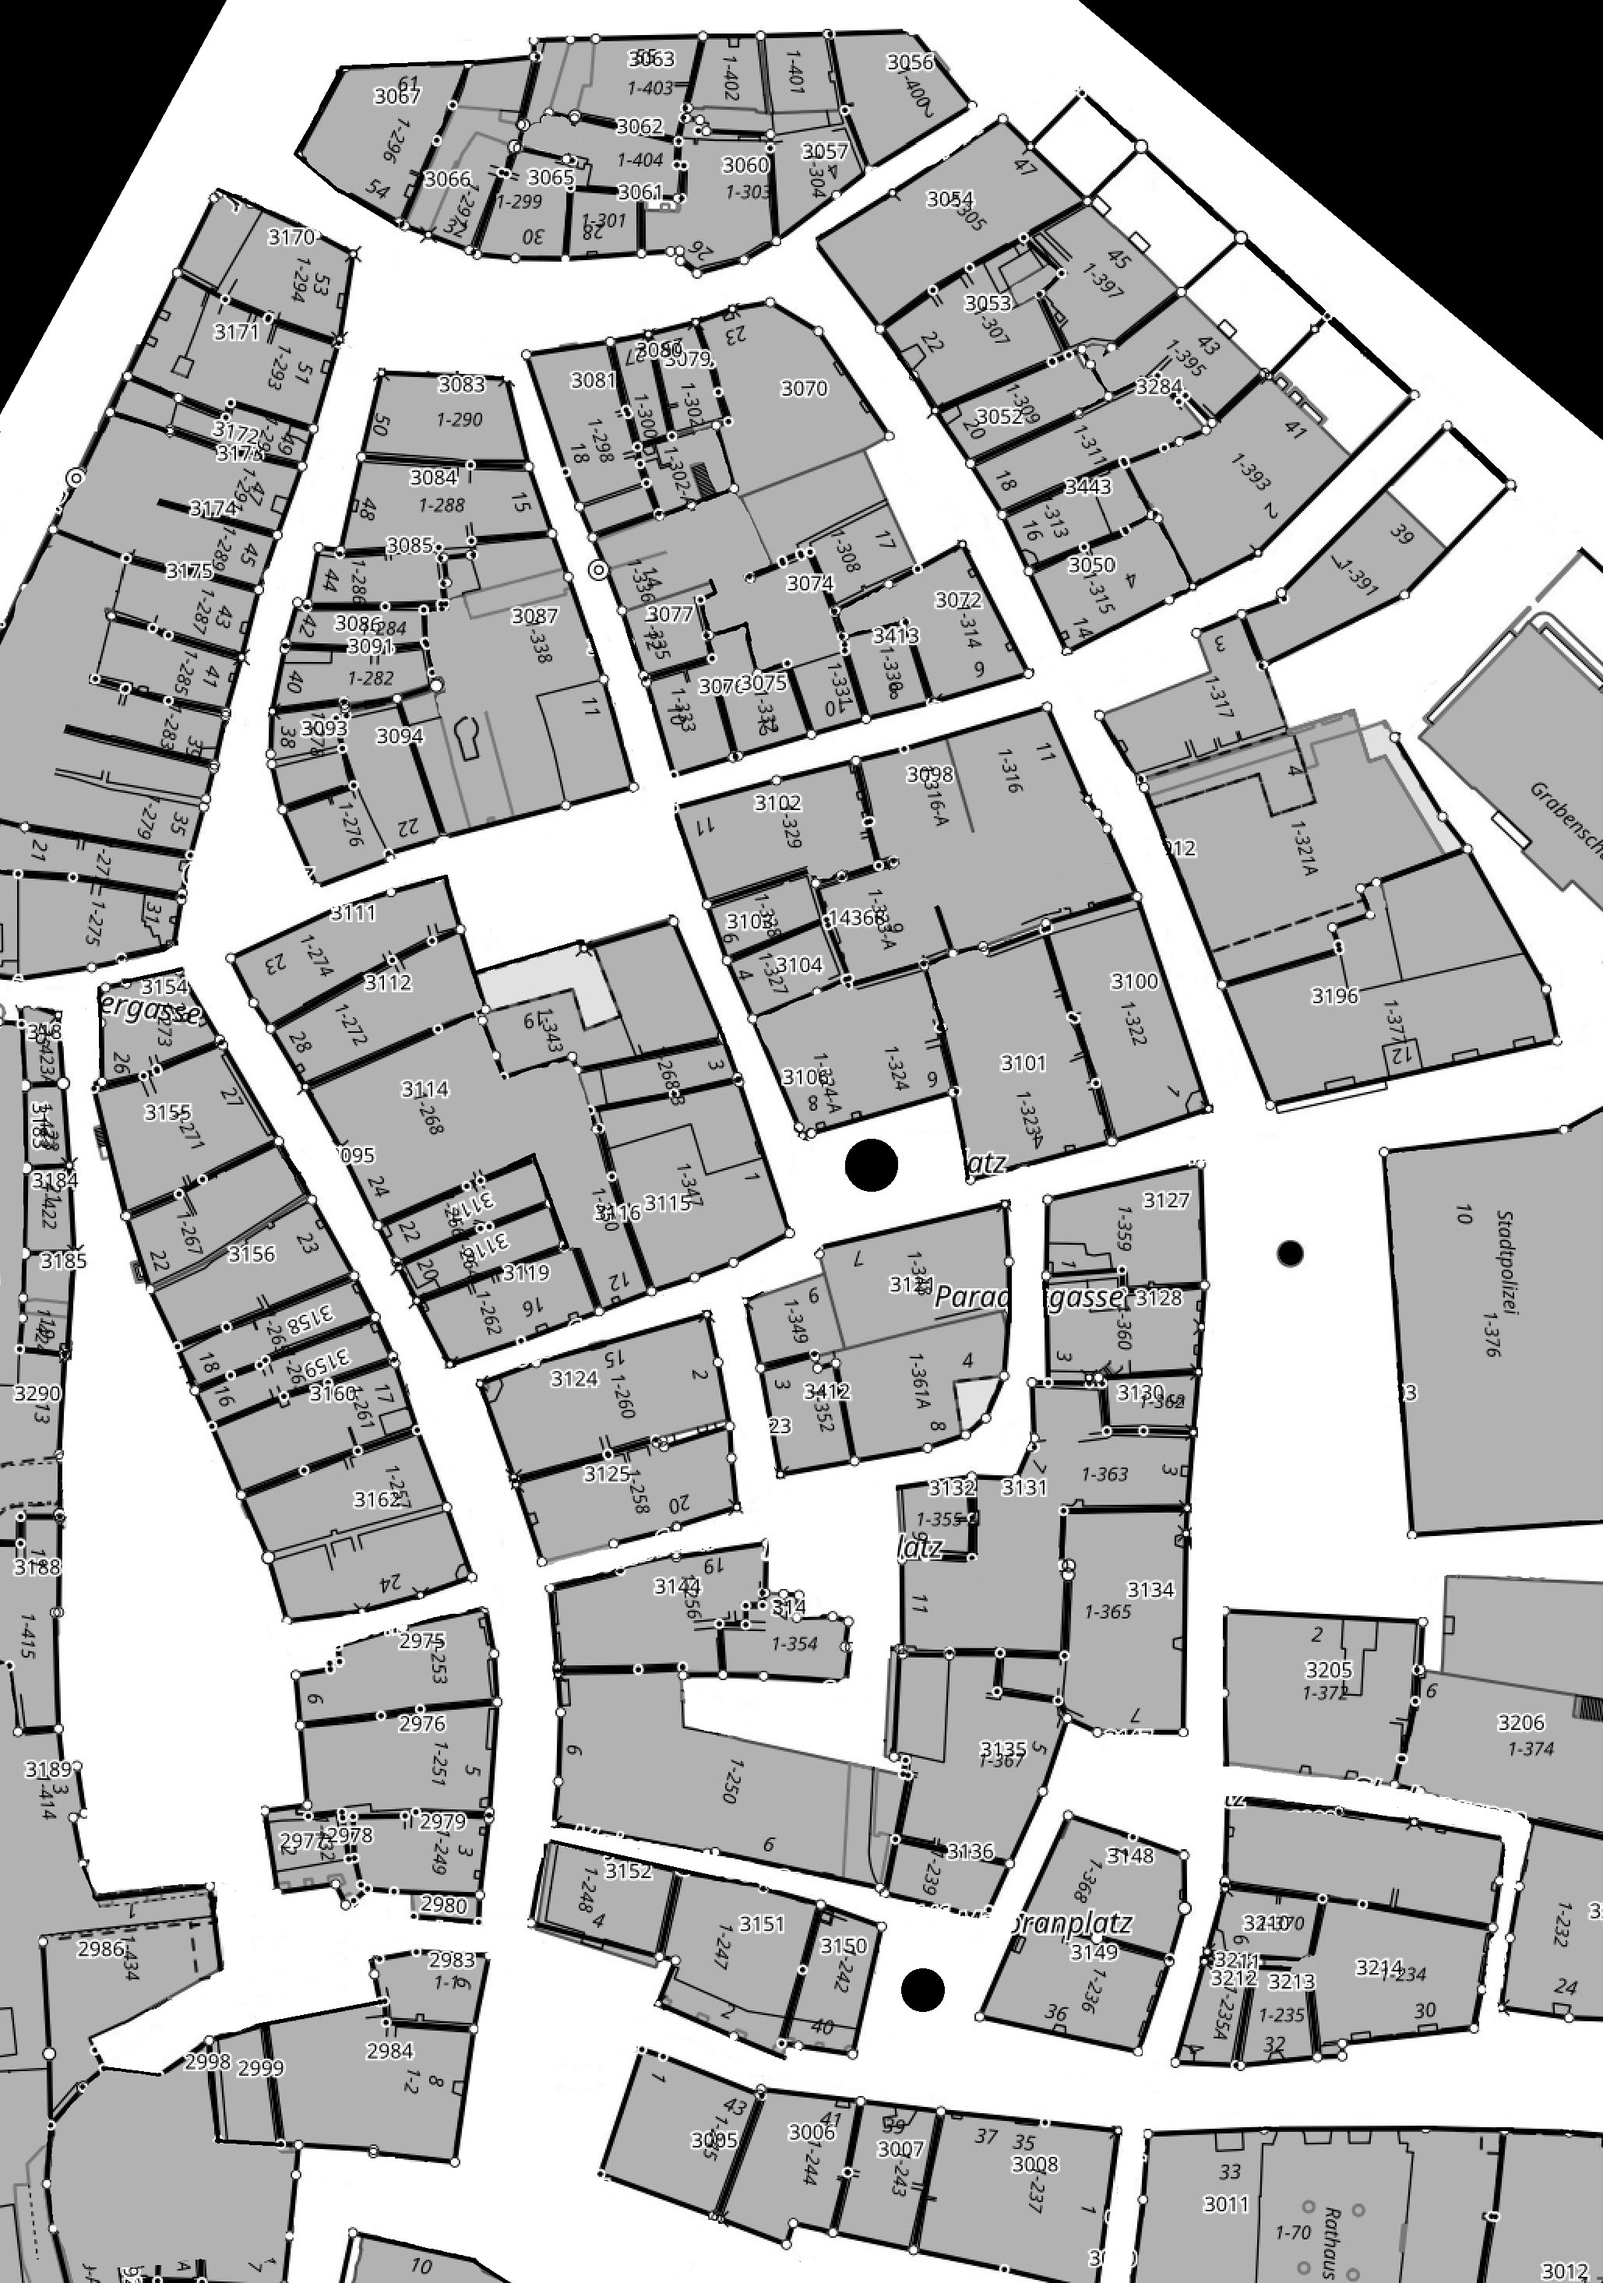
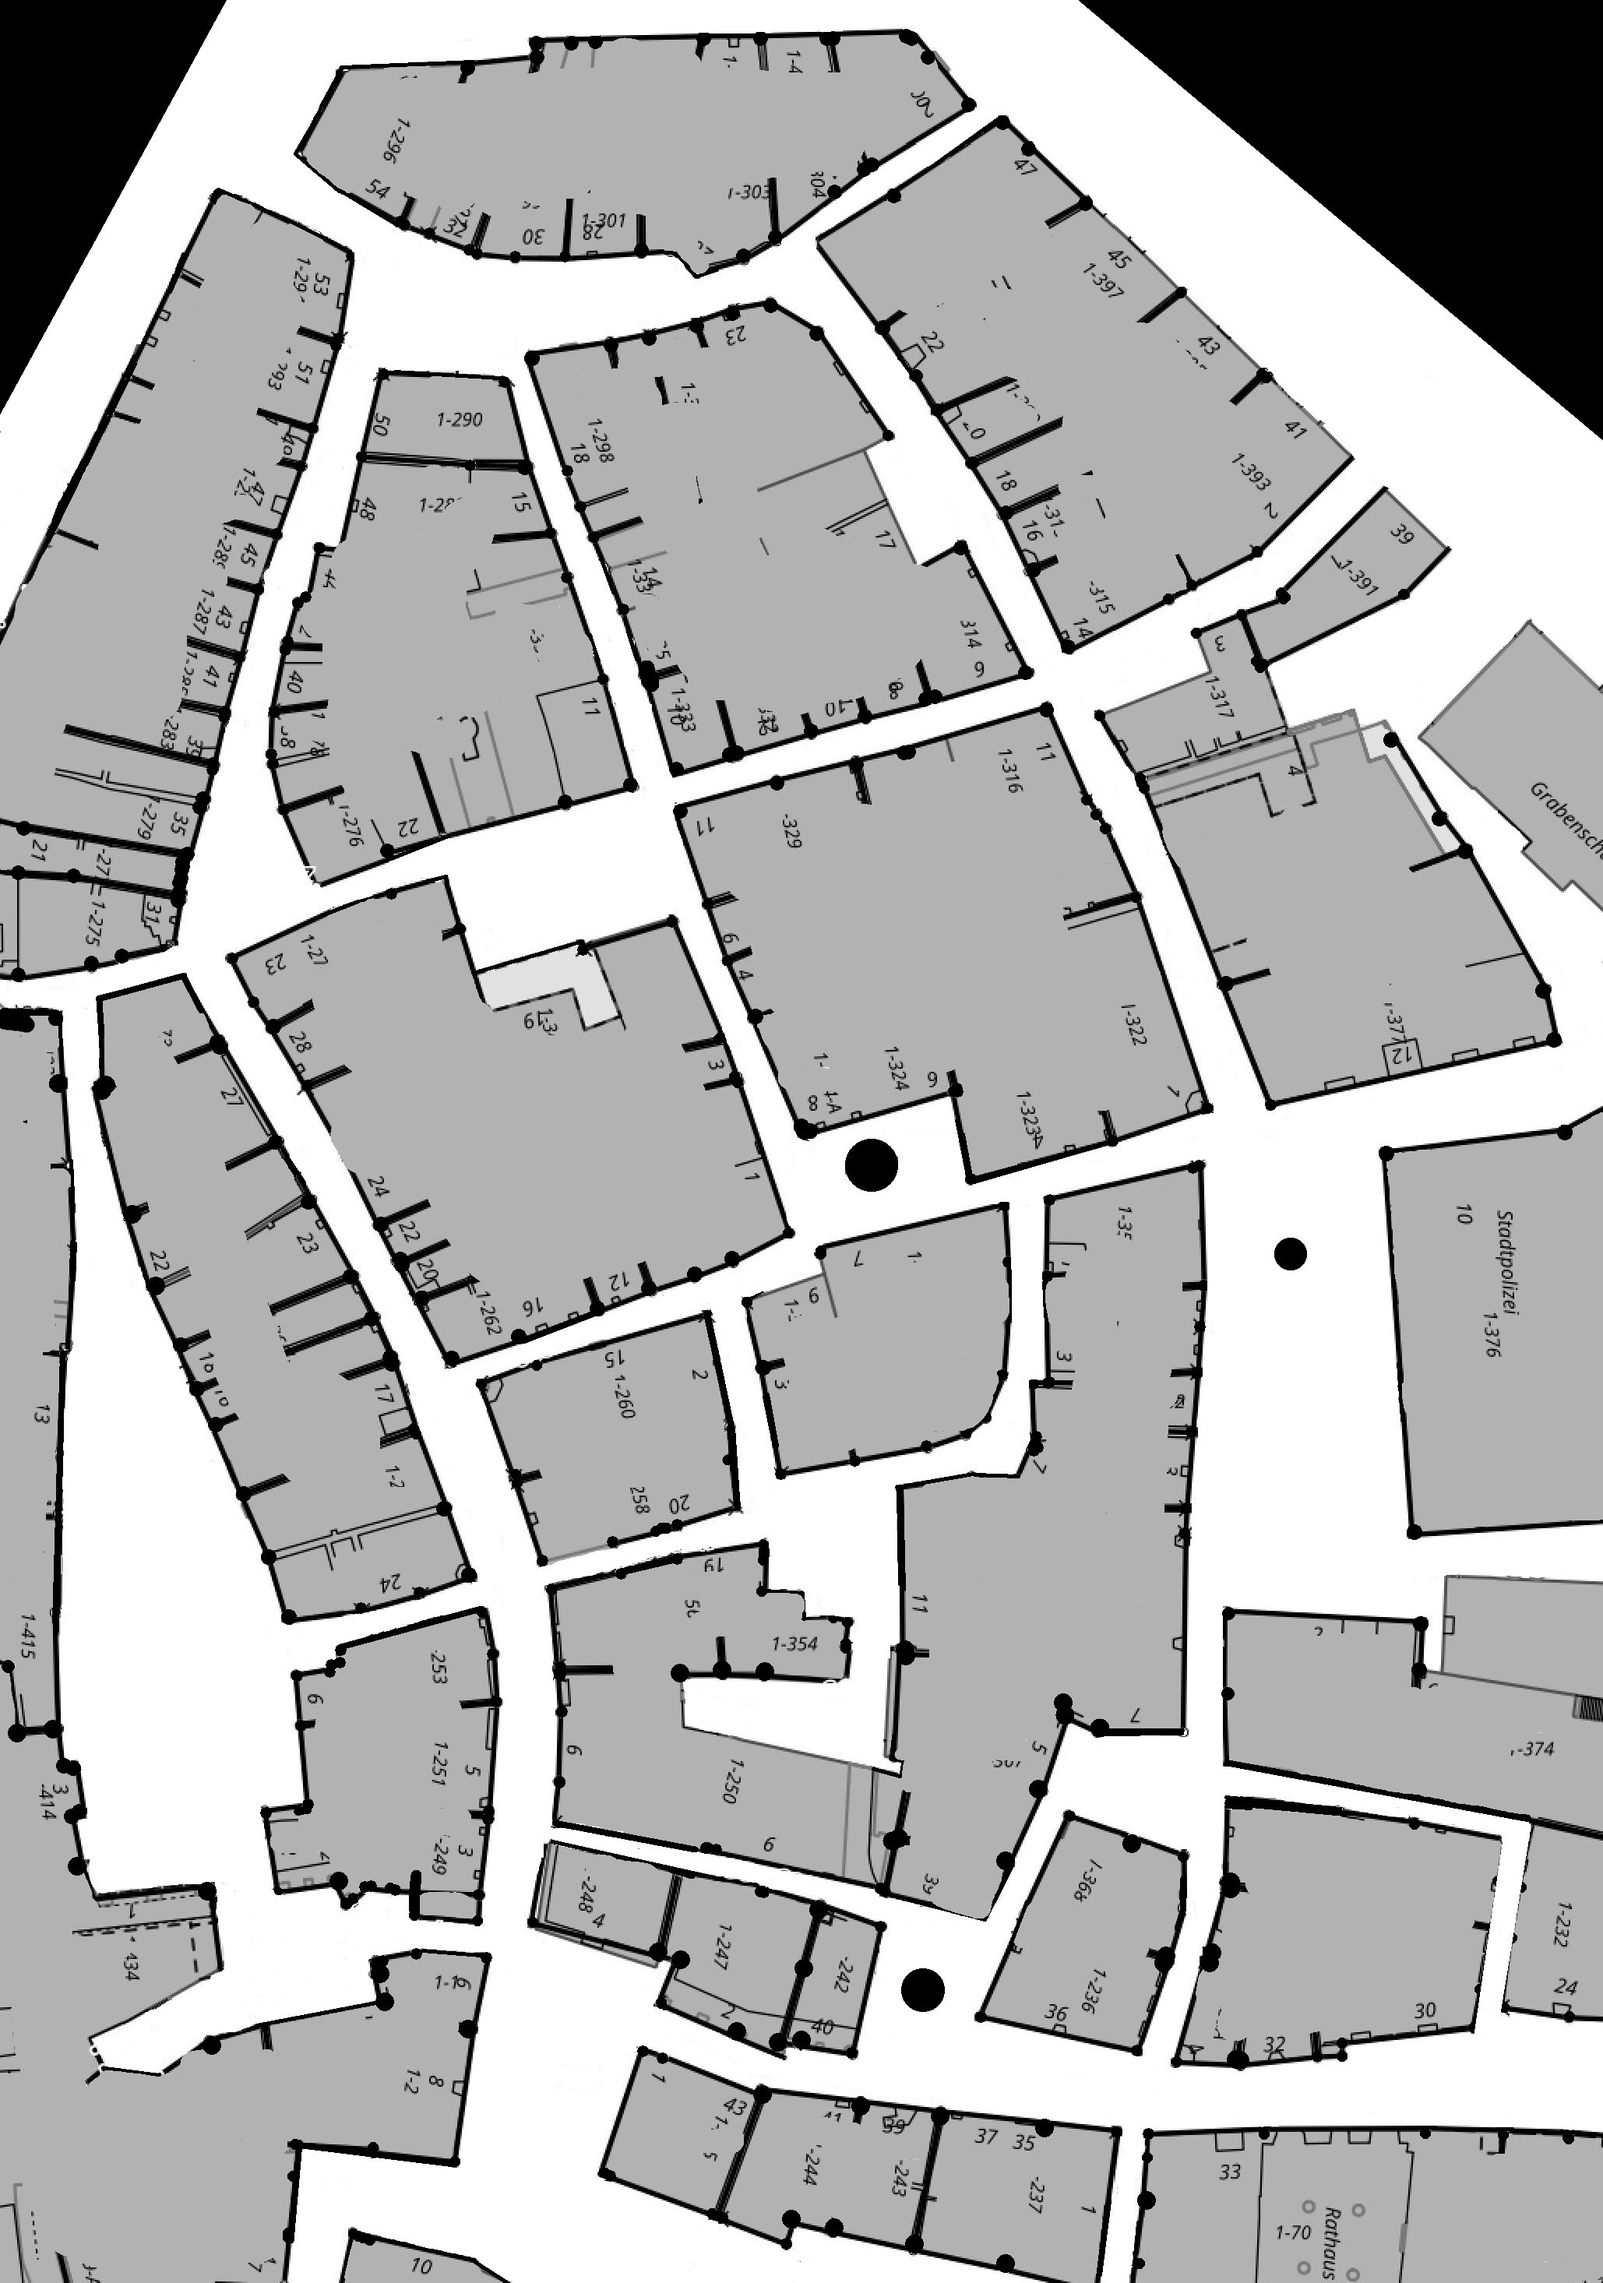
...bearbeitet.jpg fertiggestellt + erste Waypoints eingefügt

diff --git a/map_transformation/transform_jpg2Matrix.py b/map_transformation/transform_jpg2Matrix.py
@@ -1,6 +1,8 @@
 from PIL import Image
 import numpy as np
+import pandas as pd
 import matplotlib.pyplot as plt
+from matplotlib.colors import ListedColormap
 
 def analyze_image_brightness_grid(image_path, cell_size=10, threshold=230):
     # Bild öffnen und in Graustufen umwandeln
@@ -34,18 +36,47 @@ def analyze_image_brightness_grid(image_path, cell_size=10, threshold=230):
 
 
 def plot_matrix(matrix):
-    plt.imshow(matrix, cmap='gray', interpolation='nearest')
+    #wall, path, waypoint, marker
+    colors = ["black", "white", "red", "green"]
+    cmap = ListedColormap(colors)
+    plt.imshow(matrix, cmap=cmap, interpolation='nearest')
     plt.axis('off')
     plt.savefig("doc/matrix.png")
     plt.show()
 
+def addWaypoints(matrix):
+    wp = pd.read_csv("doc/Waypoints.csv")
+    for item in wp.iterrows():
+        x, y, comment = item[1]
+        matrix = addPoint(matrix, x, y, pointsize=3)
+    return matrix
 
+def addPoint(matrix, x, y, pointsize = 2, pointvalue = 2):
+    for i in range(pointsize):
+        for j in range(pointsize):
+            matrix[y+i][x+j] = pointvalue
+
+    return matrix
+
+def addMarkers(matrix):
+    for i in range(len(matrix)):
+        for j in range(len(matrix[0])):
+            if i % 50 == 0 and j % 50 == 0:
+                matrix = addPoint(matrix, j, i, pointsize=3, pointvalue=3)
+    return matrix
 
 #Image Size: 2058 x 2931 Pixels
 
 # Beispielanwendung
-matrix = analyze_image_brightness_grid("doc/Altstadt_detailiert_1000 - bearbeitet.jpg", cell_size=10)
+matrix = analyze_image_brightness_grid("doc/Altstadt_detailiert_1000 - bearbeitet.jpg", cell_size=5)
 print(matrix)
+
+print(matrix.shape)
+
+
+# Add Waypoints
+matrix = addMarkers(matrix)
+matrix = addWaypoints(matrix)
 
 # Anwendung
 plot_matrix(matrix)
